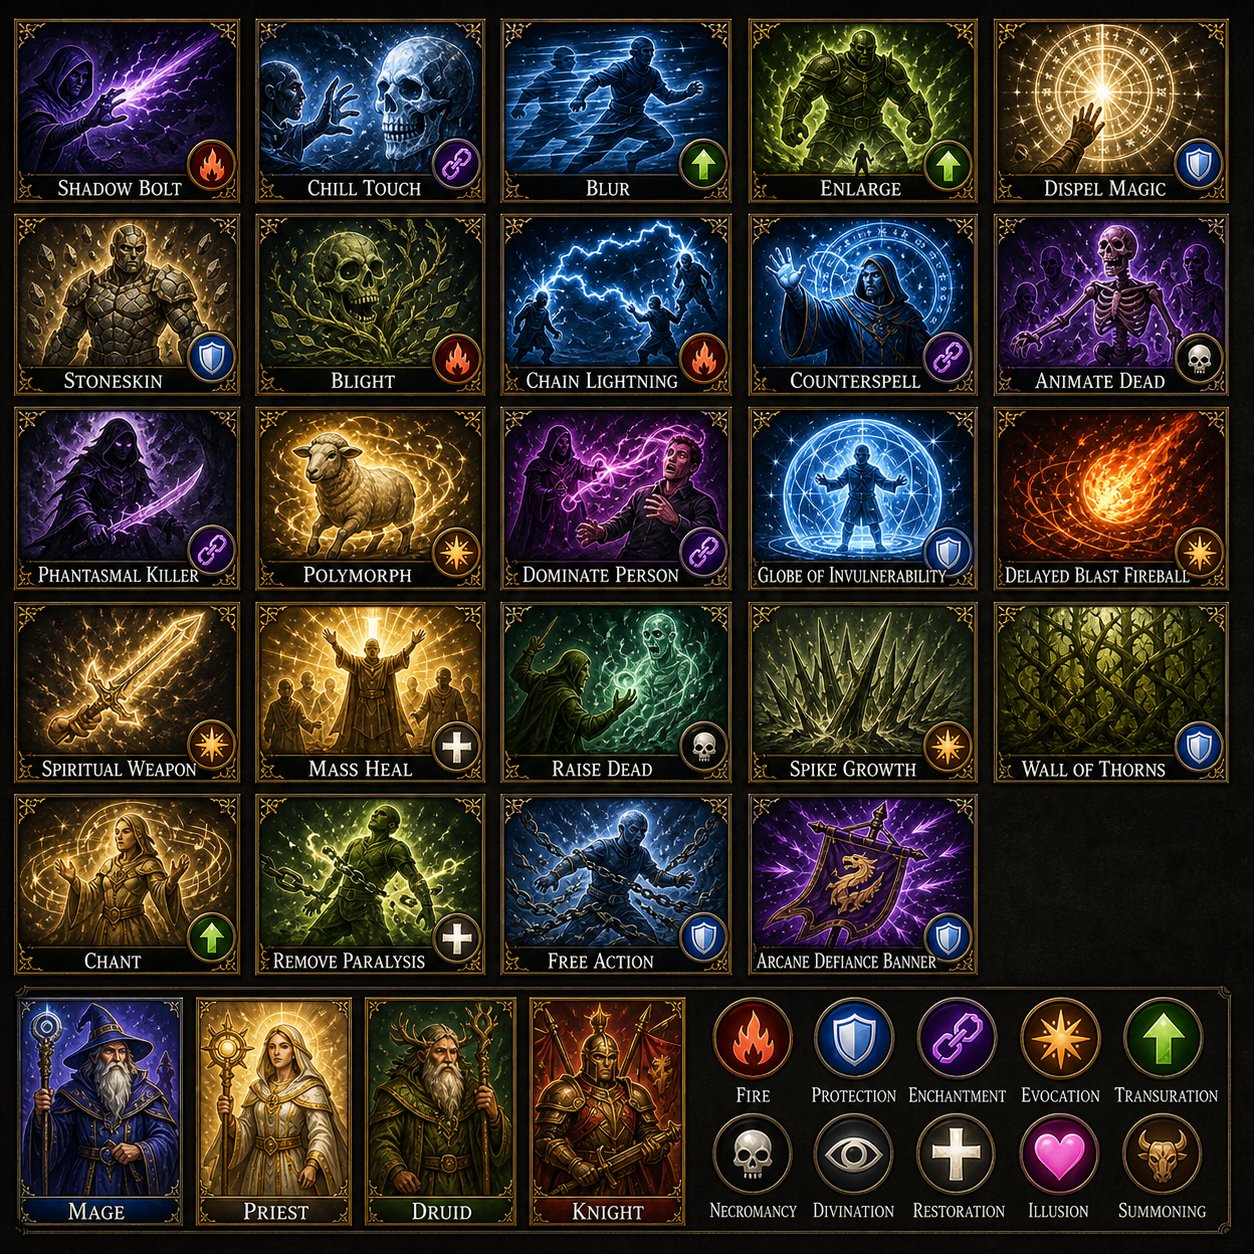
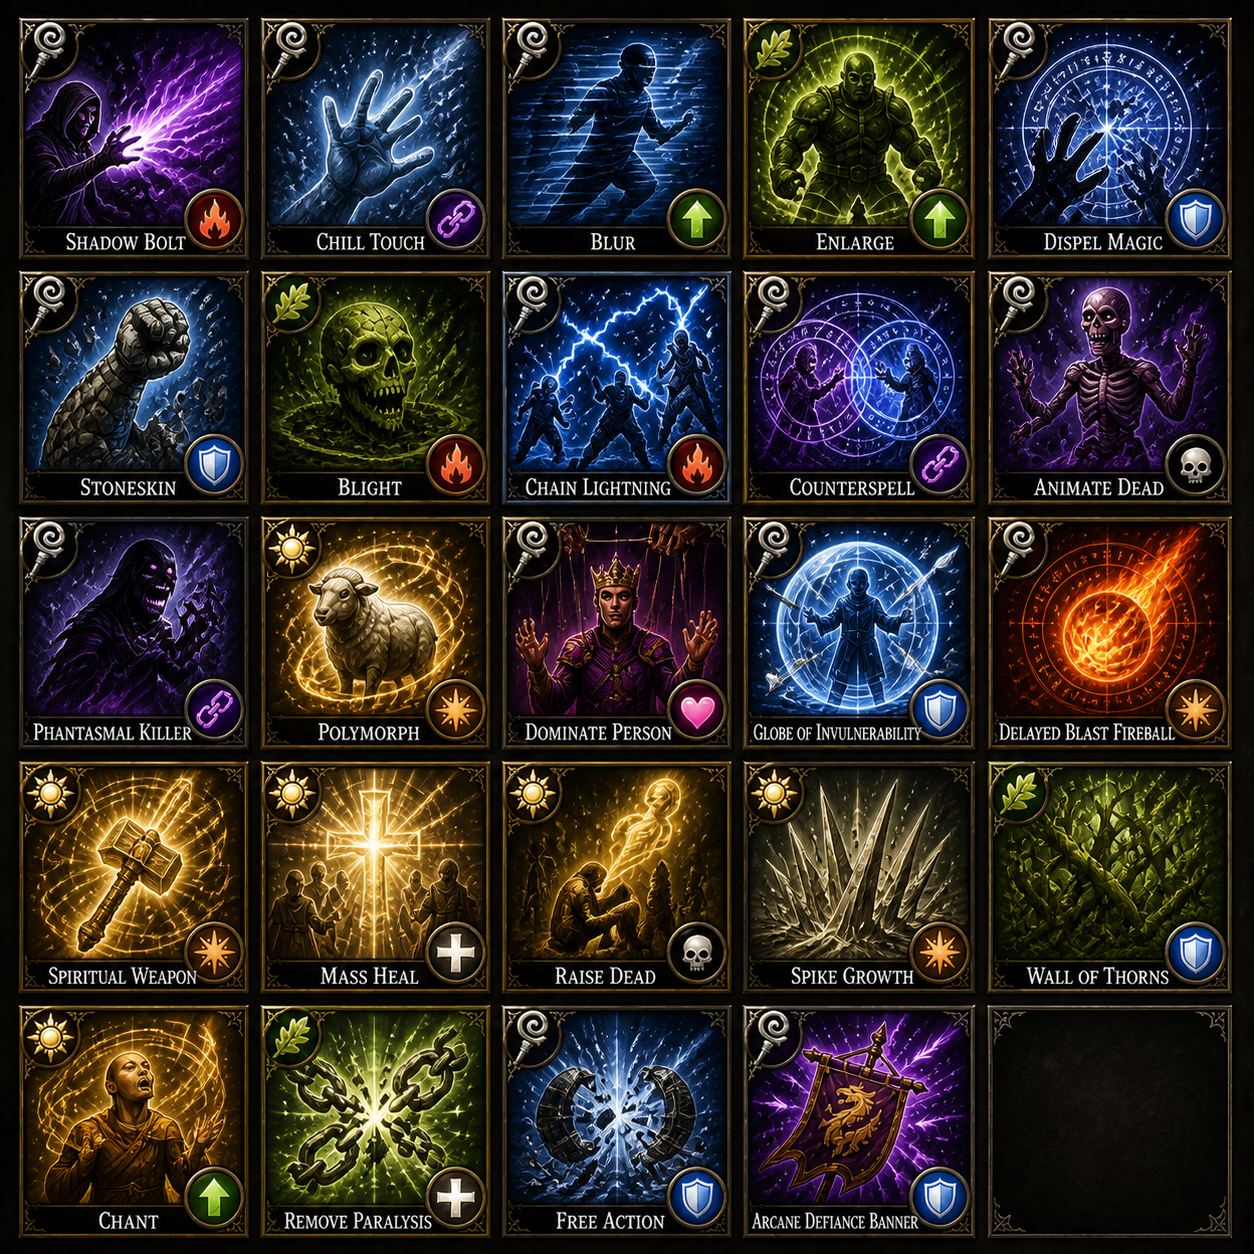
Refactor code structure for improved readability and maintainability

diff --git a/design/docs/systems/master-spellbook.md b/design/docs/systems/master-spellbook.md
@@ -763,7 +763,7 @@ From the mid game onward, mage identity shifts toward school-defined picks, stro
 <hr>
 <table border="0" cellspacing="0" cellpadding="0" style="border: none; border-collapse: collapse;">
 <tr>
-<td style="border: none; padding-right: 12px;"><img src="spell-icons/_placeholder.png" width="120"/></td>
+<td style="border: none; padding-right: 12px;"><img src="spell-icons/93_delayed_fireball.png" width="120"/></td>
 <td style="border: none;">
 <table border="0" cellspacing="0" cellpadding="0" style="border: none; border-collapse: collapse;">
 <tr><th style="border: none;">School</th><th style="border: none;">Level</th><th style="border: none;">Mana</th><th style="border: none;">Damage</th><th style="border: none;">Class</th><th style="border: none;">Tags</th></tr>
@@ -908,7 +908,7 @@ From the mid game onward, mage identity shifts toward school-defined picks, stro
 <hr>
 <table border="0" cellspacing="0" cellpadding="0" style="border: none; border-collapse: collapse;">
 <tr>
-<td style="border: none; padding-right: 12px;"><img src="spell-icons/_placeholder.png" width="120"/></td>
+<td style="border: none; padding-right: 12px;"><img src="spell-icons/88_shadow_bolt.png" width="120"/></td>
 <td style="border: none;">
 <table border="0" cellspacing="0" cellpadding="0" style="border: none; border-collapse: collapse;">
 <tr><th style="border: none;">School</th><th style="border: none;">Level</th><th style="border: none;">Mana</th><th style="border: none;">Damage</th><th style="border: none;">Class</th><th style="border: none;">Tags</th></tr>
@@ -927,7 +927,7 @@ From the mid game onward, mage identity shifts toward school-defined picks, stro
 <hr>
 <table border="0" cellspacing="0" cellpadding="0" style="border: none; border-collapse: collapse;">
 <tr>
-<td style="border: none; padding-right: 12px;"><img src="spell-icons/_placeholder.png" width="120"/></td>
+<td style="border: none; padding-right: 12px;"><img src="spell-icons/106_chill_touch.png" width="120"/></td>
 <td style="border: none;">
 <table border="0" cellspacing="0" cellpadding="0" style="border: none; border-collapse: collapse;">
 <tr><th style="border: none;">School</th><th style="border: none;">Level</th><th style="border: none;">Mana</th><th style="border: none;">Damage</th><th style="border: none;">Class</th><th style="border: none;">Tags</th></tr>
@@ -946,7 +946,7 @@ From the mid game onward, mage identity shifts toward school-defined picks, stro
 <hr>
 <table border="0" cellspacing="0" cellpadding="0" style="border: none; border-collapse: collapse;">
 <tr>
-<td style="border: none; padding-right: 12px;"><img src="spell-icons/_placeholder.png" width="120"/></td>
+<td style="border: none; padding-right: 12px;"><img src="spell-icons/89_blur.png" width="120"/></td>
 <td style="border: none;">
 <table border="0" cellspacing="0" cellpadding="0" style="border: none; border-collapse: collapse;">
 <tr><th style="border: none;">School</th><th style="border: none;">Level</th><th style="border: none;">Mana</th><th style="border: none;">Damage</th><th style="border: none;">Class</th><th style="border: none;">Tags</th></tr>
@@ -965,7 +965,7 @@ From the mid game onward, mage identity shifts toward school-defined picks, stro
 <hr>
 <table border="0" cellspacing="0" cellpadding="0" style="border: none; border-collapse: collapse;">
 <tr>
-<td style="border: none; padding-right: 12px;"><img src="spell-icons/_placeholder.png" width="120"/></td>
+<td style="border: none; padding-right: 12px;"><img src="spell-icons/106_enlarge.png" width="120"/></td>
 <td style="border: none;">
 <table border="0" cellspacing="0" cellpadding="0" style="border: none; border-collapse: collapse;">
 <tr><th style="border: none;">School</th><th style="border: none;">Level</th><th style="border: none;">Mana</th><th style="border: none;">Damage</th><th style="border: none;">Class</th><th style="border: none;">Tags</th></tr>
@@ -984,7 +984,7 @@ From the mid game onward, mage identity shifts toward school-defined picks, stro
 <hr>
 <table border="0" cellspacing="0" cellpadding="0" style="border: none; border-collapse: collapse;">
 <tr>
-<td style="border: none; padding-right: 12px;"><img src="spell-icons/_placeholder.png" width="120"/></td>
+<td style="border: none; padding-right: 12px;"><img src="spell-icons/90_dispel_magic.png" width="120"/></td>
 <td style="border: none;">
 <table border="0" cellspacing="0" cellpadding="0" style="border: none; border-collapse: collapse;">
 <tr><th style="border: none;">School</th><th style="border: none;">Level</th><th style="border: none;">Mana</th><th style="border: none;">Damage</th><th style="border: none;">Class</th><th style="border: none;">Tags</th></tr>
@@ -1003,7 +1003,7 @@ From the mid game onward, mage identity shifts toward school-defined picks, stro
 <hr>
 <table border="0" cellspacing="0" cellpadding="0" style="border: none; border-collapse: collapse;">
 <tr>
-<td style="border: none; padding-right: 12px;"><img src="spell-icons/_placeholder.png" width="120"/></td>
+<td style="border: none; padding-right: 12px;"><img src="spell-icons/99_stoneskin.png" width="120"/></td>
 <td style="border: none;">
 <table border="0" cellspacing="0" cellpadding="0" style="border: none; border-collapse: collapse;">
 <tr><th style="border: none;">School</th><th style="border: none;">Level</th><th style="border: none;">Mana</th><th style="border: none;">Damage</th><th style="border: none;">Class</th><th style="border: none;">Tags</th></tr>
@@ -1022,7 +1022,7 @@ From the mid game onward, mage identity shifts toward school-defined picks, stro
 <hr>
 <table border="0" cellspacing="0" cellpadding="0" style="border: none; border-collapse: collapse;">
 <tr>
-<td style="border: none; padding-right: 12px;"><img src="spell-icons/_placeholder.png" width="120"/></td>
+<td style="border: none; padding-right: 12px;"><img src="spell-icons/111_counter_spell.png" width="120"/></td>
 <td style="border: none;">
 <table border="0" cellspacing="0" cellpadding="0" style="border: none; border-collapse: collapse;">
 <tr><th style="border: none;">School</th><th style="border: none;">Level</th><th style="border: none;">Mana</th><th style="border: none;">Damage</th><th style="border: none;">Class</th><th style="border: none;">Tags</th></tr>
@@ -1041,7 +1041,7 @@ From the mid game onward, mage identity shifts toward school-defined picks, stro
 <hr>
 <table border="0" cellspacing="0" cellpadding="0" style="border: none; border-collapse: collapse;">
 <tr>
-<td style="border: none; padding-right: 12px;"><img src="spell-icons/_placeholder.png" width="120"/></td>
+<td style="border: none; padding-right: 12px;"><img src="spell-icons/98_blight.png" width="120"/></td>
 <td style="border: none;">
 <table border="0" cellspacing="0" cellpadding="0" style="border: none; border-collapse: collapse;">
 <tr><th style="border: none;">School</th><th style="border: none;">Level</th><th style="border: none;">Mana</th><th style="border: none;">Damage</th><th style="border: none;">Class</th><th style="border: none;">Tags</th></tr>
@@ -1060,7 +1060,7 @@ From the mid game onward, mage identity shifts toward school-defined picks, stro
 <hr>
 <table border="0" cellspacing="0" cellpadding="0" style="border: none; border-collapse: collapse;">
 <tr>
-<td style="border: none; padding-right: 12px;"><img src="spell-icons/_placeholder.png" width="120"/></td>
+<td style="border: none; padding-right: 12px;"><img src="spell-icons/105_animate_dead.png" width="120"/></td>
 <td style="border: none;">
 <table border="0" cellspacing="0" cellpadding="0" style="border: none; border-collapse: collapse;">
 <tr><th style="border: none;">School</th><th style="border: none;">Level</th><th style="border: none;">Mana</th><th style="border: none;">Damage</th><th style="border: none;">Class</th><th style="border: none;">Tags</th></tr>
@@ -1079,7 +1079,7 @@ From the mid game onward, mage identity shifts toward school-defined picks, stro
 <hr>
 <table border="0" cellspacing="0" cellpadding="0" style="border: none; border-collapse: collapse;">
 <tr>
-<td style="border: none; padding-right: 12px;"><img src="spell-icons/_placeholder.png" width="120"/></td>
+<td style="border: none; padding-right: 12px;"><img src="spell-icons/91_phantasmal_killer.png" width="120"/></td>
 <td style="border: none;">
 <table border="0" cellspacing="0" cellpadding="0" style="border: none; border-collapse: collapse;">
 <tr><th style="border: none;">School</th><th style="border: none;">Level</th><th style="border: none;">Mana</th><th style="border: none;">Damage</th><th style="border: none;">Class</th><th style="border: none;">Tags</th></tr>
@@ -1098,7 +1098,7 @@ From the mid game onward, mage identity shifts toward school-defined picks, stro
 <hr>
 <table border="0" cellspacing="0" cellpadding="0" style="border: none; border-collapse: collapse;">
 <tr>
-<td style="border: none; padding-right: 12px;"><img src="spell-icons/_placeholder.png" width="120"/></td>
+<td style="border: none; padding-right: 12px;"><img src="spell-icons/97_polymorph.png" width="120"/></td>
 <td style="border: none;">
 <table border="0" cellspacing="0" cellpadding="0" style="border: none; border-collapse: collapse;">
 <tr><th style="border: none;">School</th><th style="border: none;">Level</th><th style="border: none;">Mana</th><th style="border: none;">Damage</th><th style="border: none;">Class</th><th style="border: none;">Tags</th></tr>
@@ -1117,7 +1117,7 @@ From the mid game onward, mage identity shifts toward school-defined picks, stro
 <hr>
 <table border="0" cellspacing="0" cellpadding="0" style="border: none; border-collapse: collapse;">
 <tr>
-<td style="border: none; padding-right: 12px;"><img src="spell-icons/_placeholder.png" width="120"/></td>
+<td style="border: none; padding-right: 12px;"><img src="spell-icons/92_udominate_person.png" width="120"/></td>
 <td style="border: none;">
 <table border="0" cellspacing="0" cellpadding="0" style="border: none; border-collapse: collapse;">
 <tr><th style="border: none;">School</th><th style="border: none;">Level</th><th style="border: none;">Mana</th><th style="border: none;">Damage</th><th style="border: none;">Class</th><th style="border: none;">Tags</th></tr>
@@ -1136,7 +1136,7 @@ From the mid game onward, mage identity shifts toward school-defined picks, stro
 <hr>
 <table border="0" cellspacing="0" cellpadding="0" style="border: none; border-collapse: collapse;">
 <tr>
-<td style="border: none; padding-right: 12px;"><img src="spell-icons/_placeholder.png" width="120"/></td>
+<td style="border: none; padding-right: 12px;"><img src="spell-icons/96_globe_of_invulnerbility.png" width="120"/></td>
 <td style="border: none;">
 <table border="0" cellspacing="0" cellpadding="0" style="border: none; border-collapse: collapse;">
 <tr><th style="border: none;">School</th><th style="border: none;">Level</th><th style="border: none;">Mana</th><th style="border: none;">Damage</th><th style="border: none;">Class</th><th style="border: none;">Tags</th></tr>
@@ -1155,7 +1155,7 @@ From the mid game onward, mage identity shifts toward school-defined picks, stro
 <hr>
 <table border="0" cellspacing="0" cellpadding="0" style="border: none; border-collapse: collapse;">
 <tr>
-<td style="border: none; padding-right: 12px;"><img src="spell-icons/_placeholder.png" width="120"/></td>
+<td style="border: none; padding-right: 12px;"><img src="spell-icons/112_chain_lightning.png" width="120"/></td>
 <td style="border: none;">
 <table border="0" cellspacing="0" cellpadding="0" style="border: none; border-collapse: collapse;">
 <tr><th style="border: none;">School</th><th style="border: none;">Level</th><th style="border: none;">Mana</th><th style="border: none;">Damage</th><th style="border: none;">Class</th><th style="border: none;">Tags</th></tr>
@@ -1493,7 +1493,7 @@ Priests gain broad early identity through blessings, healing, commands, wards, a
 <hr>
 <table border="0" cellspacing="0" cellpadding="0" style="border: none; border-collapse: collapse;">
 <tr>
-<td style="border: none; padding-right: 12px;"><img src="spell-icons/_placeholder.png" width="120"/></td>
+<td style="border: none; padding-right: 12px;"><img src="spell-icons/100_mass_heal.png" width="120"/></td>
 <td style="border: none;">
 <table border="0" cellspacing="0" cellpadding="0" style="border: none; border-collapse: collapse;">
 <tr><th style="border: none;">Deity</th><th style="border: none;">Level</th><th style="border: none;">Mana</th><th style="border: none;">Damage</th><th style="border: none;">Class</th><th style="border: none;">Tags</th></tr>
@@ -1566,7 +1566,7 @@ Priests gain broad early identity through blessings, healing, commands, wards, a
 <hr>
 <table border="0" cellspacing="0" cellpadding="0" style="border: none; border-collapse: collapse;">
 <tr>
-<td style="border: none; padding-right: 12px;"><img src="spell-icons/_placeholder.png" width="120"/></td>
+<td style="border: none; padding-right: 12px;"><img src="spell-icons/108_spiritual_weapon.png" width="120"/></td>
 <td style="border: none;">
 <table border="0" cellspacing="0" cellpadding="0" style="border: none; border-collapse: collapse;">
 <tr><th style="border: none;">Deity</th><th style="border: none;">Level</th><th style="border: none;">Mana</th><th style="border: none;">Damage</th><th style="border: none;">Class</th><th style="border: none;">Tags</th></tr>
@@ -1585,7 +1585,7 @@ Priests gain broad early identity through blessings, healing, commands, wards, a
 <hr>
 <table border="0" cellspacing="0" cellpadding="0" style="border: none; border-collapse: collapse;">
 <tr>
-<td style="border: none; padding-right: 12px;"><img src="spell-icons/_placeholder.png" width="120"/></td>
+<td style="border: none; padding-right: 12px;"><img src="spell-icons/109_raise_dead.png" width="120"/></td>
 <td style="border: none;">
 <table border="0" cellspacing="0" cellpadding="0" style="border: none; border-collapse: collapse;">
 <tr><th style="border: none;">Deity</th><th style="border: none;">Level</th><th style="border: none;">Mana</th><th style="border: none;">Damage</th><th style="border: none;">Class</th><th style="border: none;">Tags</th></tr>
@@ -1938,7 +1938,7 @@ Druids begin with natural control and utility, then scale into storms, swarms, p
 <hr>
 <table border="0" cellspacing="0" cellpadding="0" style="border: none; border-collapse: collapse;">
 <tr>
-<td style="border: none; padding-right: 12px;"><img src="spell-icons/_placeholder.png" width="120"/></td>
+<td style="border: none; padding-right: 12px;"><img src="spell-icons/102_spike_growth.png" width="120"/></td>
 <td style="border: none;">
 <table border="0" cellspacing="0" cellpadding="0" style="border: none; border-collapse: collapse;">
 <tr><th style="border: none;">Deity</th><th style="border: none;">Level</th><th style="border: none;">Mana</th><th style="border: none;">Damage</th><th style="border: none;">Class</th><th style="border: none;">Tags</th></tr>
@@ -1957,7 +1957,7 @@ Druids begin with natural control and utility, then scale into storms, swarms, p
 <hr>
 <table border="0" cellspacing="0" cellpadding="0" style="border: none; border-collapse: collapse;">
 <tr>
-<td style="border: none; padding-right: 12px;"><img src="spell-icons/_placeholder.png" width="120"/></td>
+<td style="border: none; padding-right: 12px;"><img src="spell-icons/101_wall_of_thorns.png" width="120"/></td>
 <td style="border: none;">
 <table border="0" cellspacing="0" cellpadding="0" style="border: none; border-collapse: collapse;">
 <tr><th style="border: none;">Deity</th><th style="border: none;">Level</th><th style="border: none;">Mana</th><th style="border: none;">Damage</th><th style="border: none;">Class</th><th style="border: none;">Tags</th></tr>
@@ -2144,7 +2144,7 @@ Grants elemental resistance. Effective HP increase versus selected damage type. 
 <hr>
 <table border="0" cellspacing="0" cellpadding="0" style="border: none; border-collapse: collapse;">
 <tr>
-<td style="border: none; padding-right: 12px;"><img src="spell-icons/_placeholder.png" width="120"/></td>
+<td style="border: none; padding-right: 12px;"><img src="spell-icons/94_chant.png" width="120"/></td>
 <td style="border: none;">
 <table border="0" cellspacing="0" cellpadding="0" style="border: none; border-collapse: collapse;">
 <tr><th style="border: none;">Deity</th><th style="border: none;">Level</th><th style="border: none;">Mana</th><th style="border: none;">Damage</th><th style="border: none;">Class</th><th style="border: none;">Tags</th></tr>
@@ -2162,7 +2162,7 @@ Grants elemental resistance. Effective HP increase versus selected damage type. 
 <hr>
 <table border="0" cellspacing="0" cellpadding="0" style="border: none; border-collapse: collapse;">
 <tr>
-<td style="border: none; padding-right: 12px;"><img src="spell-icons/_placeholder.png" width="120"/></td>
+<td style="border: none; padding-right: 12px;"><img src="spell-icons/43_remove_paralysis.png" width="120"/></td>
 <td style="border: none;">
 <table border="0" cellspacing="0" cellpadding="0" style="border: none; border-collapse: collapse;">
 <tr><th style="border: none;">Deity</th><th style="border: none;">Level</th><th style="border: none;">Mana</th><th style="border: none;">Damage</th><th style="border: none;">Class</th><th style="border: none;">Tags</th></tr>
@@ -2216,7 +2216,7 @@ Enhances armor or shield quality with divine power. Armor Class increase. Yes, d
 <hr>
 <table border="0" cellspacing="0" cellpadding="0" style="border: none; border-collapse: collapse;">
 <tr>
-<td style="border: none; padding-right: 12px;"><img src="spell-icons/_placeholder.png" width="120"/></td>
+<td style="border: none; padding-right: 12px;"><img src="spell-icons/95_free_action.png" width="120"/></td>
 <td style="border: none;">
 <table border="0" cellspacing="0" cellpadding="0" style="border: none; border-collapse: collapse;">
 <tr><th style="border: none;">Deity</th><th style="border: none;">Level</th><th style="border: none;">Mana</th><th style="border: none;">Damage</th><th style="border: none;">Class</th><th style="border: none;">Tags</th></tr>
@@ -2489,7 +2489,7 @@ Knights begin spell-like command magic around level 9 and should feel like tacti
 <hr>
 <table border="0" cellspacing="0" cellpadding="0" style="border: none; border-collapse: collapse;">
 <tr>
-<td style="border: none; padding-right: 12px;"><img src="spell-icons/_placeholder.png" width="120"/></td>
+<td style="border: none; padding-right: 12px;"><img src="spell-icons/104_arcane_defence_banner.png" width="120"/></td>
 <td style="border: none;">
 <table border="0" cellspacing="0" cellpadding="0" style="border: none; border-collapse: collapse;">
 <tr><th style="border: none;">Deity</th><th style="border: none;">Level</th><th style="border: none;">Mana</th><th style="border: none;">Damage</th><th style="border: none;">Class</th><th style="border: none;">Tags</th></tr>
